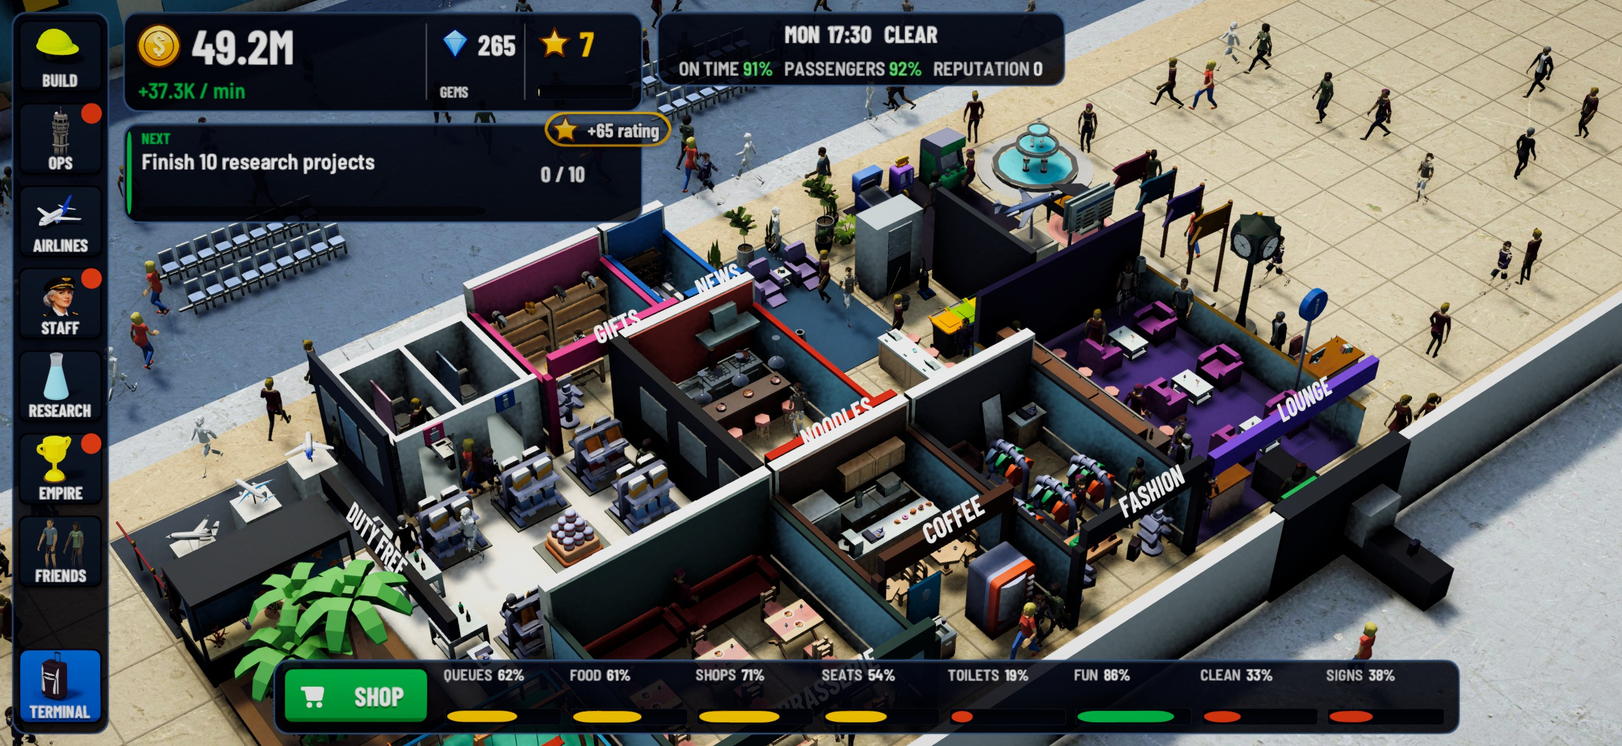
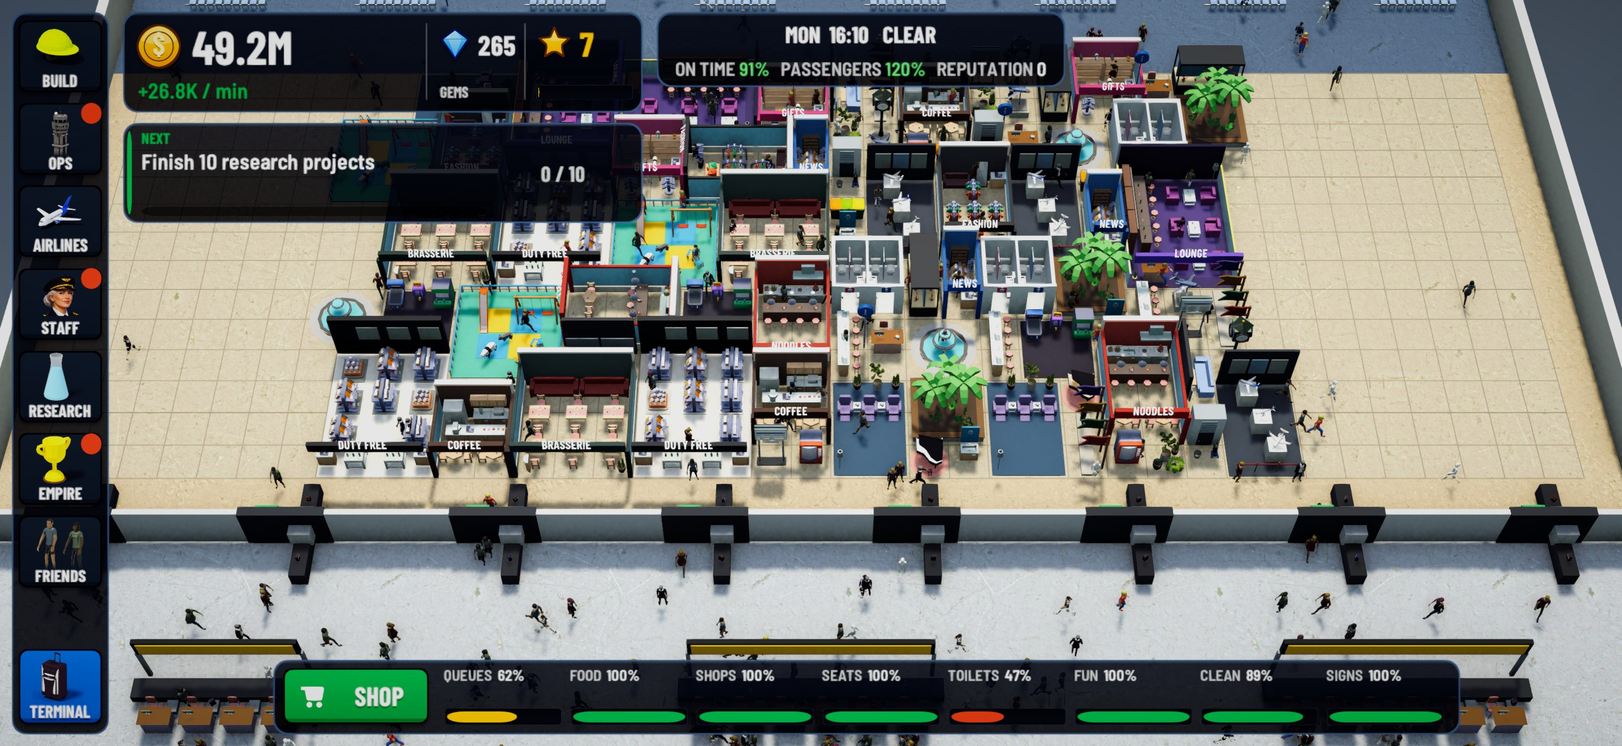
The terminal is a compact hall, not a long strip
The inside view was a 64 m wide strip up to 190 m long with a floor
eight cells wide. It is now a rectangle that fills the screen:

- it grows wider with check-in, security and the gates (60 to 120 m,
  what they need across the hall) and deeper with every star (the floor
  runs 8 to 16 cells from security back toward the gates)
- the inside camera faces the hall square on from the doors, so shop
  fronts and their signs face the player, and fits it wall to wall
- furniture in older saves is moved onto the new floor on load
- store screenshot 3 retaken

Claude-Session: https://claude.ai/code/session_012yMWpPJ26rNyj4EWvGoyec

diff --git a/Assets/Scripts/Game/World/Interior.cs b/Assets/Scripts/Game/World/Interior.cs
@@ -15,8 +15,8 @@ namespace Crosswind.Game
     {
         public static Interior Instance { get; private set; }
         public static readonly Vector3 Origin = new Vector3(3000, 0, 0);
-        public const float Width = 64f;     // x: landside (-) to airside (+)
-
+        /// <summary>The hall's depth (x: the doors at -, the glass to the apron at +) and its width across (z).</summary>
+        public float Width { get; private set; } = 66f;
         public float Length { get; private set; }
 
         GameObject _static;
@@ -61,26 +61,26 @@ namespace Crosswind.Game
         {
             if (_static != null) Destroy(_static);
             _doors.Clear(); _desks.Clear(); _lanes.Clear(); _shops.Clear(); _seats.Clear(); _gates.Clear();
-            float was = Length;
+            float was = Length, wasDeep = Width;
             var s = _sim;
             int checkin = s.Level("checkin"), security = s.Level("security"), gates = s.Level("gates"), shops = s.Level("shops"), seating = s.Level("seating"), info = s.Level("info"), lounge = s.Level("lounge");
-            Length = s.TerminalLength;
-            if (Length < was - 0.5f) _agents.Clear();      // a smaller hall (a new airport): the old crowd would walk through walls. Otherwise people finish their way.
+            Length = s.TerminalLength; Width = s.TerminalDepth;
+            if (Length < was - 0.5f || Mathf.Abs(Width - wasDeep) > 0.5f) _agents.Clear();      // a smaller hall (a new airport): the old crowd would walk through walls. Otherwise people finish their way.
             float L = Length, W = Width, x0 = -W * 0.5f, z0 = -L * 0.5f;
             var mb = new MeshBuilder { Smoothness = 0.25f };
             mb.Box(new Vector3(0, -0.6f, 0), new Vector3(1600, 0.5f, 1600), Palette.Hex(0x1E242C));     // the table the cutaway stands on
             var g = new Ground();
             // Floors: pale stone in the hall, a warmer tone in the concourse, carpet blue at the gates.
             g.Rect("Concrete", 0, 0, W, L, 0.0f, 0, new Color(1.25f, 1.27f, 1.3f));
-            g.Rect("Concrete", x0 + W * 0.86f, 0, W * 0.26f, L, 0.01f, 0, new Color(0.62f, 0.72f, 0.86f));      // a grey-blue carpet, not a swimming pool
-            g.Rect("Concrete", x0 + W * 0.56f, 0, W * 0.3f, L, 0.012f, 0, new Color(1.35f, 1.2f, 0.98f));
-            // Walls: full height at the back and the ends, cut low toward the camera so the floor shows.
+            float sx = x0 + 21.5f, gateEdge = W * 0.5f - Sim.TerminalBack;      // the security wall, and where the gate lounges begin
+            g.Rect("Concrete", gateEdge + Sim.TerminalBack * 0.5f, 0, Sim.TerminalBack, L, 0.01f, 0, new Color(0.62f, 0.72f, 0.86f));      // a grey-blue carpet, not a swimming pool
+            g.Rect("Concrete", (sx + gateEdge) * 0.5f, 0, gateEdge - sx, L, 0.012f, 0, new Color(1.35f, 1.2f, 0.98f));
+            // Walls: full height along the glass at the back, lower at the two ends, cut low at the doors (toward the camera) so the floor shows.
             Color wall = Palette.Hex(0xE7E3DA), trim = Palette.Hex(0x1F5FA8), deskTint = new Color(0.82f, 0.92f, 1.12f);
-            mb.Box(new Vector3(0, 2.6f, -L * 0.5f - 0.3f), new Vector3(W + 1.2f, 5.2f, 0.6f), wall, Palette.White);
+            foreach (float e in new[] { -1f, 1f }) mb.Box(new Vector3(0, 1.5f, e * (L * 0.5f + 0.3f)), new Vector3(W + 1.2f, 3.0f, 0.6f), wall, Palette.White);
             mb.Box(new Vector3(W * 0.5f + 0.3f, 2.6f, 0), new Vector3(0.6f, 5.2f, L + 1.2f), wall, Palette.White);
-            mb.Box(new Vector3(0, 0.5f, L * 0.5f + 0.3f), new Vector3(W + 1.2f, 1.0f, 0.6f), wall, Palette.White);
             mb.Box(new Vector3(-W * 0.5f - 0.3f, 0.5f, 0), new Vector3(0.6f, 1.0f, L + 1.2f), wall, Palette.White);
-            mb.Box(new Vector3(0, 4.9f, -L * 0.5f + 0.05f), new Vector3(W, 0.5f, 0.1f), trim);
+            mb.Box(new Vector3(W * 0.5f - 0.06f, 4.9f, 0), new Vector3(0.1f, 0.5f, L), trim);
             // Glass to the apron along the airside wall.
             mb.Smoothness = 0.92f;
             for (float z = z0 + 3; z < L * 0.5f - 2; z += 6) mb.Box(new Vector3(W * 0.5f - 0.05f, 2.6f, z), new Vector3(0.12f, 3.6f, 4.6f), Palette.Hex(0x6FB0CC));
@@ -97,8 +97,8 @@ namespace Crosswind.Game
             }
 
             // ---- check-in: islands of desks with a baggage belt behind and queue barriers in front
-            int desks = Mathf.Clamp(checkin * 2, 2, 40), perIsland = 6, islands = (desks + perIsland - 1) / perIsland;
-            float cx = x0 + W * 0.2f;
+            int desks = s.CheckinDesks, perIsland = 6, islands = (desks + perIsland - 1) / perIsland;
+            float cx = x0 + 11.5f;
             for (int i = 0; i < islands; i++)
             {
                 float iz = z0 + L * (i + 0.5f) / islands;
@@ -127,8 +127,7 @@ namespace Crosswind.Game
             }
 
             // ---- security: lanes with a belt, a scanner and an arch, across the middle
-            int lanes = Mathf.Clamp(security, 1, 24);
-            float sx = x0 + W * 0.4f;
+            int lanes = s.SecurityLanes;
             mb.Box(new Vector3(sx, 1.3f, 0), new Vector3(0.3f, 2.6f, L), Palette.Hex(0xD5D8DC), Palette.White);                                    // the wall security pierces
             for (int i = 0; i < lanes; i++)
             {
@@ -148,8 +147,8 @@ namespace Crosswind.Game
             DrawFloor(mb, g, x0, z0);
 
             // ---- gate lounges along the glass: rows of seats, a desk and a gate number each
-            int gateCount = Mathf.Clamp(gates, 1, 24);
-            float gx = x0 + W * 0.86f;
+            int gateCount = s.GateLounges;
+            float gx = W * 0.5f - 6f;
             for (int i = 0; i < gateCount; i++)
             {
                 float gz = z0 + L * (i + 0.5f) / gateCount, span = Mathf.Min(7f, L / gateCount - 1.2f);
@@ -190,7 +189,7 @@ namespace Crosswind.Game
         void Update()
         {
             var s = _sim;
-            string key = s.Level("checkin") + "|" + s.Level("security") + "|" + s.Level("gates") + "|" + FloorKey(s);
+            string key = s.Level("checkin") + "|" + s.Level("security") + "|" + s.Level("gates") + "|" + s.FloorCols + "|" + FloorKey(s);
             if (key != _built) { _built = key; Rebuild(); }
             if (!CameraRig.Inside || _walk == null || _walk[0][0] == null) return;
 
@@ -259,8 +258,8 @@ namespace Crosswind.Game
 
         // ------------------------------------------------------------------ the concourse floor
 
-        /// <summary>The floor's corner (cell 0,0) in the hall's own space: just past security, two metres in from the end wall.</summary>
-        public Vector3 FloorCorner { get { return new Vector3(-Width * 0.5f + Width * 0.43f, 0, -Length * 0.5f + 2f); } }
+        /// <summary>The floor's corner (cell 0,0) in the hall's own space: just past security, two metres in from the end wall. Cells run x toward the gates, z across the hall.</summary>
+        public Vector3 FloorCorner { get { return new Vector3(-Width * 0.5f + Sim.TerminalFront, 0, -Length * 0.5f + 2f); } }
 
         /// <summary>The middle of a footprint, in the world.</summary>
         public Vector3 FloorPoint(int x, int z, int w, int d) { return Origin + FloorCorner + new Vector3((x + w * 0.5f) * Sim.Cell, 0, (z + d * 0.5f) * Sim.Cell); }
@@ -348,10 +347,11 @@ namespace Crosswind.Game
             var corner = FloorCorner;
             int rows = _sim.FloorRows;
             // The floor you can build on: a warm stone with fine joints at every cell.
-            float fw = Sim.FloorCols * Sim.Cell, fl = rows * Sim.Cell;
+            int cols = _sim.FloorCols;
+            float fw = cols * Sim.Cell, fl = rows * Sim.Cell;
             g.Rect("Concrete", corner.x + fw * 0.5f, corner.z + fl * 0.5f, fw, fl, 0.014f, 0, new Color(1.32f, 1.22f, 1.04f));
             var joint = new Color(0.62f, 0.58f, 0.5f);
-            for (int x = 0; x <= Sim.FloorCols; x++) mb.Box(new Vector3(corner.x + x * Sim.Cell, 0.02f, corner.z + fl * 0.5f), new Vector3(0.05f, 0.012f, fl), joint);
+            for (int x = 0; x <= cols; x++) mb.Box(new Vector3(corner.x + x * Sim.Cell, 0.02f, corner.z + fl * 0.5f), new Vector3(0.05f, 0.012f, fl), joint);
             for (int z = 0; z <= rows; z += 1) mb.Box(new Vector3(corner.x + fw * 0.5f, 0.02f, corner.z + z * Sim.Cell), new Vector3(fw, 0.012f, 0.05f), joint);
 
             foreach (var p in _sim.State.terminal)

diff --git a/Assets/Scripts/Core/Sim.Terminal.cs b/Assets/Scripts/Core/Sim.Terminal.cs
@@ -33,7 +33,7 @@ namespace Crosswind.Core
     /// </summary>
     public sealed partial class Sim
     {
-        public const int FloorCols = 8, MaxAmenityLevel = 3;
+        public const int MaxAmenityLevel = 3;
         public const float Cell = 2f;
 
         public static readonly List<AmenityDef> Amenities = new List<AmenityDef>
@@ -78,10 +78,35 @@ namespace Crosswind.Core
 
         public static AmenityDef AmenityById(string id) { return Amenities.Find(a => a.Id == id); }
 
-        /// <summary>The terminal's length in metres: it grows with check-in, security and the gates.</summary>
-        public float TerminalLength { get { return Math.Max(50, Math.Min(190, 46 + (Level("checkin") + Level("security") + Level("gates")) * 3.2f)); } }
-        /// <summary>Rows of the concourse floor you can build on.</summary>
+        // The hall is a compact rectangle seen from the landside: doors, check-in and security across the front, the
+        // concourse floor behind them, the gate lounges along the glass at the back. It grows both ways: wider with
+        // check-in, security and the gates (each needs room across the hall), deeper with the airport's rating.
+        public const float TerminalFront = 25f, TerminalBack = 16f, MinTerminalWidth = 60f, MaxTerminalWidth = 120f;
+        public const int MinFloorCols = 8, MaxFloorCols = 16;
+
+        /// <summary>Check-in desks, security lanes and gates as the hall shows them (their levels, capped).</summary>
+        public int CheckinDesks { get { return Math.Max(2, Math.Min(40, Level("checkin") * 2)); } }
+        public int SecurityLanes { get { return Math.Max(1, Math.Min(24, Level("security"))); } }
+        public int GateLounges { get { return Math.Max(1, Math.Min(24, Level("gates"))); } }
+
+        /// <summary>The hall's width in metres (across, as you look in from the doors): what its desks, lanes and gates need, in whole floor cells.</summary>
+        public float TerminalLength
+        {
+            get
+            {
+                int islands = (CheckinDesks + 5) / 6;
+                float want = MinTerminalWidth + (Level("checkin") + Level("security") + Level("gates")) * 0.9f;
+                want = Math.Max(want, Math.Max(islands * 13.4f + 4, Math.Max(SecurityLanes * 4.6f, GateLounges * 4.4f)));
+                want = Math.Max(MinTerminalWidth, Math.Min(MaxTerminalWidth, want));
+                return (float)Math.Ceiling(want / Cell) * Cell;
+            }
+        }
+        /// <summary>Floor cells from security back toward the gates: one more with every star.</summary>
+        public int FloorCols { get { return Math.Max(MinFloorCols, Math.Min(MaxFloorCols, MinFloorCols - 1 + Stars)); } }
+        /// <summary>Floor cells across the hall.</summary>
         public int FloorRows { get { return (int)((TerminalLength - 4) / Cell); } }
+        /// <summary>The hall's depth in metres, doors to glass.</summary>
+        public float TerminalDepth { get { return TerminalFront + FloorCols * Cell + TerminalBack; } }
 
         public int Placed(string id) { return State.terminal.Count(p => p.id == id); }
 
@@ -131,20 +156,40 @@ namespace Crosswind.Core
             return true;
         }
 
-        /// <summary>The first free spot for this, row by row from the middle of the terminal (null: the floor is full).</summary>
-        public PlacedAmenity FindSpot(string id)
+        /// <summary>The first free spot for this, working out from the middle of the hall (null: the floor is full).</summary>
+        public PlacedAmenity FindSpot(string id, PlacedAmenity ignore = null)
         {
             var d = AmenityById(id);
             if (d == null) return null;
-            int rows = FloorRows, mid = rows / 2;
+            int rows = FloorRows, cols = FloorCols, mid = rows / 2;
             for (int k = 0; k < rows; k++)
             {
                 int z = mid + ((k & 1) == 0 ? k / 2 : -(k / 2) - 1);
                 for (int rot = 0; rot < 2; rot++)
-                    for (int x = 0; x < FloorCols; x++)
-                        if (FloorFree(d, x, z, rot)) return new PlacedAmenity { id = id, x = x, z = z, rot = rot };
+                    for (int x = 0; x < cols; x++)
+                        if (FloorFree(d, x, z, rot, ignore)) return new PlacedAmenity { id = id, x = x, z = z, rot = rot };
             }
             return null;
+        }
+
+        /// <summary>
+        /// Puts back on the floor anything that no longer lies on it (a save from before the hall changed shape): each
+        /// such item moves to the nearest free spot; with no room left it is sold back for all it cost.
+        /// </summary>
+        public int RefitTerminal()
+        {
+            int moved = 0;
+            foreach (var p in State.terminal.ToList())
+            {
+                var d = AmenityById(p.id);
+                if (d == null) { State.terminal.Remove(p); continue; }
+                if (FloorFree(d, p.x, p.z, p.rot, p)) continue;
+                var spot = FindSpot(p.id, p);
+                if (spot != null) { p.x = spot.x; p.z = spot.z; p.rot = spot.rot; }
+                else { State.money += SellValue(p) * 2; State.terminal.Remove(p); }
+                moved++;
+            }
+            return moved;
         }
 
         /// <summary>Places one wherever it fits (the play bot, and "place for me").</summary>

diff --git a/Assets/Scripts/Game/App/CameraRig.cs b/Assets/Scripts/Game/App/CameraRig.cs
@@ -11,7 +11,10 @@ namespace Crosswind.Game
         /// <summary>The point on the ground the camera looks at, and how far back it stands.</summary>
         public Vector3 Focus = new Vector3(6, 0, -40);
         public float Distance = 230f;
-        const float Pitch = 40f, Yaw = 128f, MinDistance = 90f, MaxDistance = 700f;
+        const float MinDistance = 90f, MaxDistance = 700f, InsideMin = 40f, InsideMax = 320f;
+        /// <summary>Over the airfield the view is three-quarter; inside it faces the hall square on from the doors, a little steeper, so the hall fills the screen.</summary>
+        static float Pitch { get { return Inside ? 55f : 40f; } }
+        static float Yaw { get { return Inside ? 90f : 128f; } }
         Vector3 _focusV;
         float _shown;
 
@@ -23,9 +26,23 @@ namespace Crosswind.Game
         {
             if (inside == Inside) return;
             Inside = inside;
-            if (inside) { _outFocus = Focus; _outDistance = Distance; Focus = Interior.Origin + new Vector3(0, 0, -6); Distance = 235; }
+            if (inside) { _outFocus = Focus; _outDistance = Distance; Focus = Interior.Origin; Distance = FitInside(); }
             else { Focus = _outFocus; Distance = _outDistance; }
             _shown = Distance;
+        }
+
+        /// <summary>
+        /// How far back the hall fills the screen from wall to wall. On a wide phone that leaves the doors and the far
+        /// end of the gate lounges a short drag away; on a tablet the whole hall is in view.
+        /// </summary>
+        public float FitInside()
+        {
+            var hall = Interior.Instance;
+            float across = hall != null ? hall.Length : 60, deep = hall != null ? hall.Width : 66;
+            float t = Mathf.Tan(Cam.fieldOfView * 0.5f * Mathf.Deg2Rad), aspect = Mathf.Max(0.5f, Cam.aspect);
+            float wide = (across + 3) / (2 * t * aspect), whole = (deep + 4) * Mathf.Sin(Pitch * Mathf.Deg2Rad) / (2 * t);
+            // Wall to wall; where that would show less than about two thirds of the hall's depth, a little further back.
+            return Mathf.Clamp(wide >= whole ? wide : Mathf.Max(wide, whole * 0.62f), InsideMin, InsideMax);
         }
 
         public static CameraRig Create()
@@ -54,8 +71,8 @@ namespace Crosswind.Game
             Focus -= right * pixels.x * perPixel + fwd * pixels.y * perPixel / Mathf.Sin(Pitch * Mathf.Deg2Rad);
             if (Inside)
             {
-                float half = Interior.Instance != null ? Interior.Instance.Length * 0.5f : 40;
-                Focus.x = Mathf.Clamp(Focus.x, Interior.Origin.x - 34, Interior.Origin.x + 34);
+                float half = Interior.Instance != null ? Interior.Instance.Length * 0.5f : 40, deep = Interior.Instance != null ? Interior.Instance.Width * 0.5f : 33;
+                Focus.x = Mathf.Clamp(Focus.x, Interior.Origin.x - deep, Interior.Origin.x + deep);
                 Focus.z = Mathf.Clamp(Focus.z, -half, half);
                 return;
             }
@@ -64,7 +81,7 @@ namespace Crosswind.Game
         }
 
         /// <summary>Zoom by a factor (over 1 = closer).</summary>
-        public void Zoom(float factor) { Distance = Mathf.Clamp(Distance / Mathf.Max(0.01f, factor), Inside ? 45f : MinDistance, Inside ? 260f : MaxDistance); }
+        public void Zoom(float factor) { Distance = Mathf.Clamp(Distance / Mathf.Max(0.01f, factor), Inside ? InsideMin : MinDistance, Inside ? InsideMax : MaxDistance); }
 
         void LateUpdate()
         {

diff --git a/Assets/Tests/EditMode/TerminalTests.cs b/Assets/Tests/EditMode/TerminalTests.cs
@@ -14,10 +14,53 @@ namespace Crosswind.Tests
             var s = Fresh();
             Assert.IsTrue(s.Place("cafe", 0, 0, 0));
             Assert.IsFalse(s.Place("seats", 1, 1, 0), "on the cafe");
-            Assert.IsNotNull(s.PlaceBlocked("seats", Sim.FloorCols - 1, 0, 0), "hangs off the edge");
-            Assert.IsTrue(s.Place("seats", Sim.FloorCols - 1, 0, 1), "turned, it fits");
+            Assert.IsNotNull(s.PlaceBlocked("seats", s.FloorCols - 1, 0, 0), "hangs off the edge");
+            Assert.IsTrue(s.Place("seats", s.FloorCols - 1, 0, 1), "turned, it fits");
             Assert.IsFalse(s.Place("cafe", 0, s.FloorRows - 1, 0), "off the end");
             Assert.AreEqual(2, s.State.terminal.Count);
+        }
+
+        [Test]
+        public void TheHallIsACompactRectangleThatGrowsBothWays()
+        {
+            var s = new Sim(GameState.New()); s.RealNow = () => 1_800_000_000; s.BuildTimeScale = 0; s.State.money = 1e15;
+            float w0 = s.TerminalLength, d0 = s.TerminalDepth;
+            Assert.AreEqual(Sim.MinFloorCols, s.FloorCols);
+            Assert.LessOrEqual(w0 / d0, 2f, "never a long strip");
+            Assert.GreaterOrEqual(w0 / d0, 0.9f);
+            // Wider with what stands across it.
+            for (int i = 0; i < 12; i++) { s.Upgrade("checkin"); s.Upgrade("security"); s.Upgrade("gates"); }
+            Assert.Greater(s.TerminalLength, w0);
+            Assert.GreaterOrEqual(s.TerminalLength, s.SecurityLanes * 4.6f - 2);
+            Assert.GreaterOrEqual(s.TerminalLength, (s.CheckinDesks + 5) / 6 * 13.4f);
+            // Deeper with the rating.
+            s.State.ratingXp = Content.StarXp[6];
+            Assert.AreEqual(Sim.MinFloorCols + 5, s.FloorCols);
+            Assert.Greater(s.TerminalDepth, d0);
+            // At its largest it is still under two to one.
+            s.State.ratingXp = Content.StarXp[Content.MaxStars];
+            for (int i = 0; i < 40; i++) { s.Upgrade("checkin"); s.Upgrade("security"); s.Upgrade("gates"); }
+            Assert.AreEqual(Sim.MaxFloorCols, s.FloorCols);
+            Assert.LessOrEqual(s.TerminalLength, Sim.MaxTerminalWidth);
+            Assert.LessOrEqual(s.TerminalLength / s.TerminalDepth, 2f);
+            Assert.AreEqual(s.FloorRows * Sim.Cell, s.TerminalLength - 4, 0.01f, "the floor runs the width of the hall, in whole cells");
+        }
+
+        [Test]
+        public void AnOlderSavesFurnitureIsMovedOntoTheFloor()
+        {
+            var st = GameState.New();
+            st.money = 1000;
+            // As the long strip had it: far down a floor that no longer reaches there, and two things on one spot.
+            st.terminal.Add(new PlacedAmenity { id = "cafe", x = 0, z = 80, rot = 0 });
+            st.terminal.Add(new PlacedAmenity { id = "seats", x = 2, z = 3, rot = 0 });
+            st.terminal.Add(new PlacedAmenity { id = "bins", x = 2, z = 3, rot = 0 });
+            var s = new Sim(st); s.RealNow = () => 1_800_000_000;
+            Assert.AreEqual(3, s.State.terminal.Count);
+            foreach (var p in s.State.terminal)
+                Assert.IsTrue(s.FloorFree(Sim.AmenityById(p.id), p.x, p.z, p.rot, p), p.id + " lies on free floor");
+            Assert.AreEqual(1000, s.State.money, "nothing had to be sold");
+            Assert.AreEqual(0, s.RefitTerminal(), "and it stays put from then on");
         }
 
         [Test]

diff --git a/Assets/Scripts/Game/UI/Hud.Terminal.cs b/Assets/Scripts/Game/UI/Hud.Terminal.cs
@@ -145,7 +145,7 @@ namespace Crosswind.Game
             if (_placing != null)
             {
                 int w, d; Sim.Footprint(_placing, _placeRot, out w, out d);
-                _placeX = Mathf.Clamp(cx - (w - 1) / 2, 0, Sim.FloorCols - w); _placeZ = Mathf.Clamp(cz - (d - 1) / 2, 0, Mathf.Max(0, _sim.FloorRows - d));
+                _placeX = Mathf.Clamp(cx - (w - 1) / 2, 0, _sim.FloorCols - w); _placeZ = Mathf.Clamp(cz - (d - 1) / 2, 0, Mathf.Max(0, _sim.FloorRows - d));
                 Sfx.Play("click", 0.4f);
                 return;
             }
@@ -209,7 +209,7 @@ namespace Crosswind.Game
             if (_placing != null)
             {
                 int w, d; Sim.Footprint(_placing, _placeRot, out w, out d);
-                _placeX = Mathf.Clamp(_placeX, 0, Sim.FloorCols - w); _placeZ = Mathf.Clamp(_placeZ, 0, Mathf.Max(0, _sim.FloorRows - d));
+                _placeX = Mathf.Clamp(_placeX, 0, _sim.FloorCols - w); _placeZ = Mathf.Clamp(_placeZ, 0, Mathf.Max(0, _sim.FloorRows - d));
                 bool free = _sim.FloorFree(_placing, _placeX, _placeZ, _placeRot, _moving);
                 double cost = _moving != null ? 0 : _sim.AmenityCost(_placing.Id);
                 bool can = free && _sim.State.money >= cost;

diff --git a/Assets/Scripts/Game/UI/LoadingScreen.cs b/Assets/Scripts/Game/UI/LoadingScreen.cs
@@ -20,6 +20,7 @@ namespace Crosswind.Game
             "Hire a manager and the department runs itself, even while you're away.",
             "Contracts are marked three ways: punctual, serviced, standards. Full marks pay the whole reward.",
             "Reputation with an airline raises what every one of its flights pays you.",
+            "The terminal grows wider with check-in, security and gates, and deeper with every star.",
             "An incident waits 75 seconds for your answer. Unanswered, it settles itself the passive way.",
             "Every answer to an incident says what it will cost before you choose.",
             "A surprise inspection looks at the runway surface first: keep it above 60%.",

diff --git a/Assets/Scripts/Core/Sim.cs b/Assets/Scripts/Core/Sim.cs
@@ -39,6 +39,8 @@ namespace Crosswind.Core
             if (State.fuelStock < 0) State.fuelStock = FuelCapacity;
             // And one from before wide-bodies needed their own stand keeps the stands it was already using for them.
             if (HeavyStands == 0 && State.contracts.Exists(c => Heavy(Content.Routes[c.route].Class))) SetLevel("heavy", Math.Min(StandCount, 2));
+            // And one from when the terminal was a long strip has its furniture moved onto the hall's floor.
+            RefitTerminal();
         }
 
         // ------------------------------------------------------------------ levels and what they mean

diff --git a/Assets/Scripts/Core/Sim.Economy.cs b/Assets/Scripts/Core/Sim.Economy.cs
@@ -79,10 +79,11 @@ namespace Crosswind.Core
 
         void AddRating(double xp)
         {
-            int before = Stars;
+            int before = Stars, floor = FloorCols;
             State.ratingXp += xp * (1 + Fx(Effect.RatingGain));
             int after = Stars;
             for (int s = before + 1; s <= after; s++) { State.crates++; StarGained?.Invoke(s); }     // every star brings a crate
+            if (FloorCols > floor) Toast?.Invoke("The terminal is deeper: more floor to build on");
         }
 
         // ------------------------------------------------------------------ managers

diff --git a/CLAUDE.md b/CLAUDE.md
@@ -156,6 +156,14 @@ Tools/unity-test.sh                          # EditMode tests in the Editor, or 
   studio light, shadow catcher, trimmed to a 256 square). Add an icon: put it in `ICONS`, fetch, `render <name>`, and
   update the credits (`CREDITS.md` and the "Picture icons" row under EMPIRE). `World/Studio.cs` still photographs the
   game's own terminal items for the catalogue (`Interior.Picture`).
+- The terminal is a compact hall, not a strip (the user, 2026-11-11: "The airport should be like this. Not a long
+  and skinny rectangle."): `Sim.TerminalLength` is its width across (60 to 120 m: what `CheckinDesks`,
+  `SecurityLanes` and `GateLounges` need), `Sim.TerminalDepth` its depth (`TerminalFront` 25 m of doors, check-in and
+  security + `FloorCols` x 2 m of floor + `TerminalBack` 16 m of gate lounges); `FloorCols` (8 to 16, one more per
+  star) run from security toward the gates, `FloorRows` across. In `Interior`, x is depth (doors at -x, glass at +x)
+  and z is across; `Interior.Width` is the depth. Inside, `CameraRig` faces the hall square on (yaw 90, pitch 55) and
+  `FitInside` fills the screen wall to wall. `Sim.RefitTerminal` (on load) moves furniture from older saves onto the
+  floor. Keep the hall under two to one (`TerminalTests`).
 - Incidents (`Core/Sim.Incidents.cs`, `IncidentTests`; from 2 stars and 15 flights): every 4 to 8 game minutes
   `IncidentTick` puts one of twelve `Incidents` on the desk (`State.incident`: id, `expiresAt`, `value` = what a minute
   of the airport is worth, an `airline`); `IncidentStory`, `IncidentDoes(choice)`, `IncidentBlocked(choice)`,
